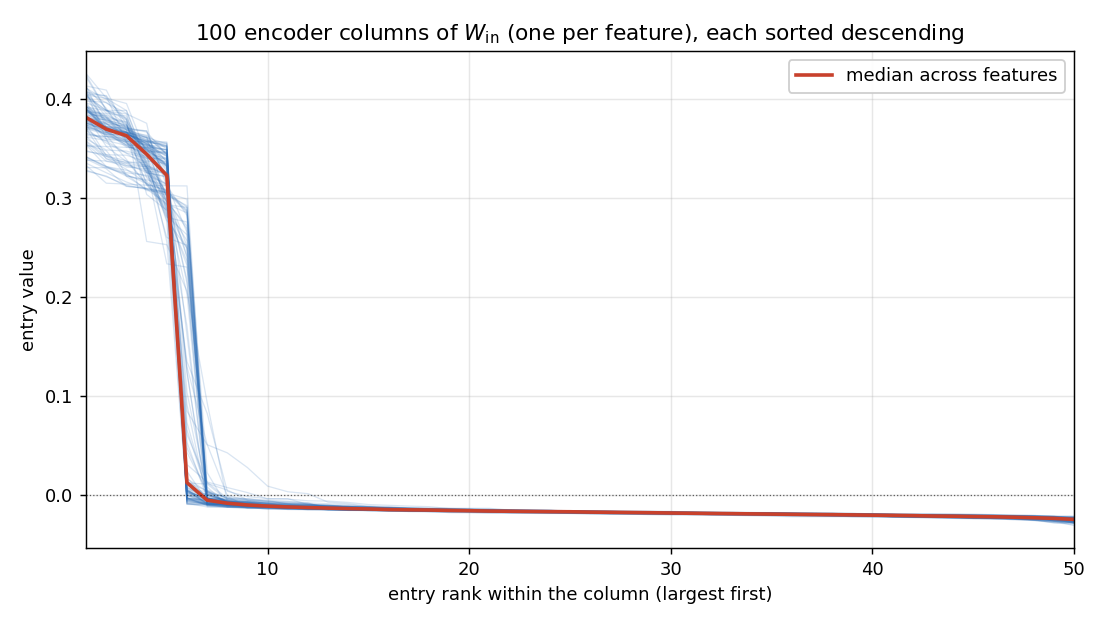
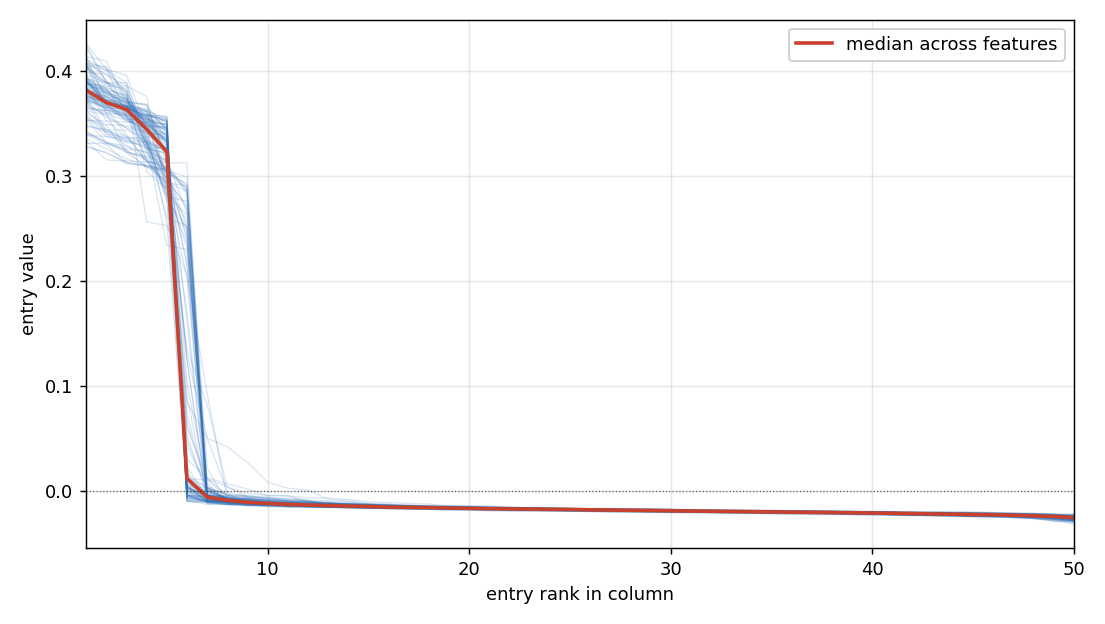
polish three figures for the paper
- per-feature loss: drop title; clarify that 'active' means x > 0
  (matches the conditioning the script computes; baseline 1/3 is
  E[x^2 | x ~ Uniform(0, 1)]); legend reads "trained with L^2/L^4"
- encoder columns: drop title; tighten x-axis to "entry rank in column"
- K sweep: drop title; y-axis says "L^4 loss (ratio to trained model)"
  explicitly; trained-model reference line moved to neutral gray so it
  recedes behind the data; legend label shortened to "trained model"

diff --git a/plot_loss_per_feature.py b/plot_loss_per_feature.py
@@ -53,15 +53,15 @@ def main():
     ranks = np.arange(F)
     fig, ax = plt.subplots(figsize=(9, 4.6))
     ax.scatter(ranks, mse_l2[order], s=22, color="#c8412c", alpha=0.85,
-               edgecolor="none", label=r"L$^2$ trained")
+               edgecolor="none", label=r"trained with L$^2$")
     ax.scatter(ranks, mse_l4[order], s=22, color="#3070b8", alpha=0.85,
-               edgecolor="none", label=r"L$^4$ trained")
-    # E[ReLU(x)^2 | x active] = 1/3 for x ~ Uniform(-1, 1)
+               edgecolor="none", label=r"trained with L$^4$")
+    # baseline 1/3 = E[x^2 | x ~ Uniform(0, 1)]: the per-feature MSE you would
+    # incur on positive-x samples by outputting 0 instead of x.
     ax.axhline(1.0 / 3.0, color="#444444", lw=1.6, ls=(0, (6, 4)), alpha=0.9,
-               label="MSE if model outputs 0 on active features")
-    ax.set_xlabel("feature index (sorted by L$^2$ MSE, descending)")
-    ax.set_ylabel("per-feature MSE on active samples")
-    ax.set_title(f"Per-feature loss, F = {F}, N = {N}, p = {P}")
+               label=r"MSE on $x > 0$ samples if model outputs 0")
+    ax.set_xlabel(r"feature index (sorted descending by MSE for model trained with L$^2$)")
+    ax.set_ylabel(r"per-feature MSE on $x > 0$ samples")
     ax.legend(loc="upper right", fontsize=10, framealpha=0.95)
     ax.grid(alpha=0.3, which="both")
     fig.tight_layout()

diff --git a/plot_K_sweep.py b/plot_K_sweep.py
@@ -54,18 +54,12 @@ def main():
         ax.plot(np.full_like(pts, K) + jit, pts, "s", color="#d62728",
                 markersize=3.5, alpha=0.4)
 
-    ax.axhline(1.0, color="#2ca02c", ls="--", lw=1.4,
-               label=f"trained 100k model  (L4={l4_trained:.2e})")
+    ax.axhline(1.0, color="#666666", ls="--", lw=1.4,
+               label="trained model")
 
     ax.set_xticks(K_list)
     ax.set_xlabel("codeword length K (active neurons per feature)")
-    ax.set_ylabel(r"$L^4$ loss  /  trained-model $L^4$ loss")
-    swap_str = f", {swaps // 1000}k overlap swaps" if swaps else ""
-    ax.set_title(
-        f"L4 vs codeword length: birregular vs random  "
-        f"(F={res['meta']['F']}, N={res['meta']['N']}, p={res['meta']['P']}, "
-        f"5 seeds each{swap_str})"
-    )
+    ax.set_ylabel(r"$L^4$ loss (ratio to trained model)")
     ax.grid(True, which="both", alpha=0.3)
     ax.legend(fontsize=10, loc="best")
     fig.tight_layout()

diff --git a/plot_encoder_columns.py b/plot_encoder_columns.py
@@ -42,11 +42,9 @@ def main():
     ax.plot(ranks, median, color="#c8412c", lw=2.0,
             label="median across features")
     ax.axhline(0.0, color="k", lw=0.7, ls=":", alpha=0.6)
-    ax.set_xlabel("entry rank within the column (largest first)")
+    ax.set_xlabel("entry rank in column")
     ax.set_ylabel("entry value")
     ax.set_xlim(1, N)
-    ax.set_title(r"100 encoder columns of $W_{\rm in}$ (one per feature), "
-                 "each sorted descending")
     ax.legend(loc="upper right", fontsize=10, framealpha=0.95)
     ax.grid(alpha=0.3)
     fig.tight_layout()
